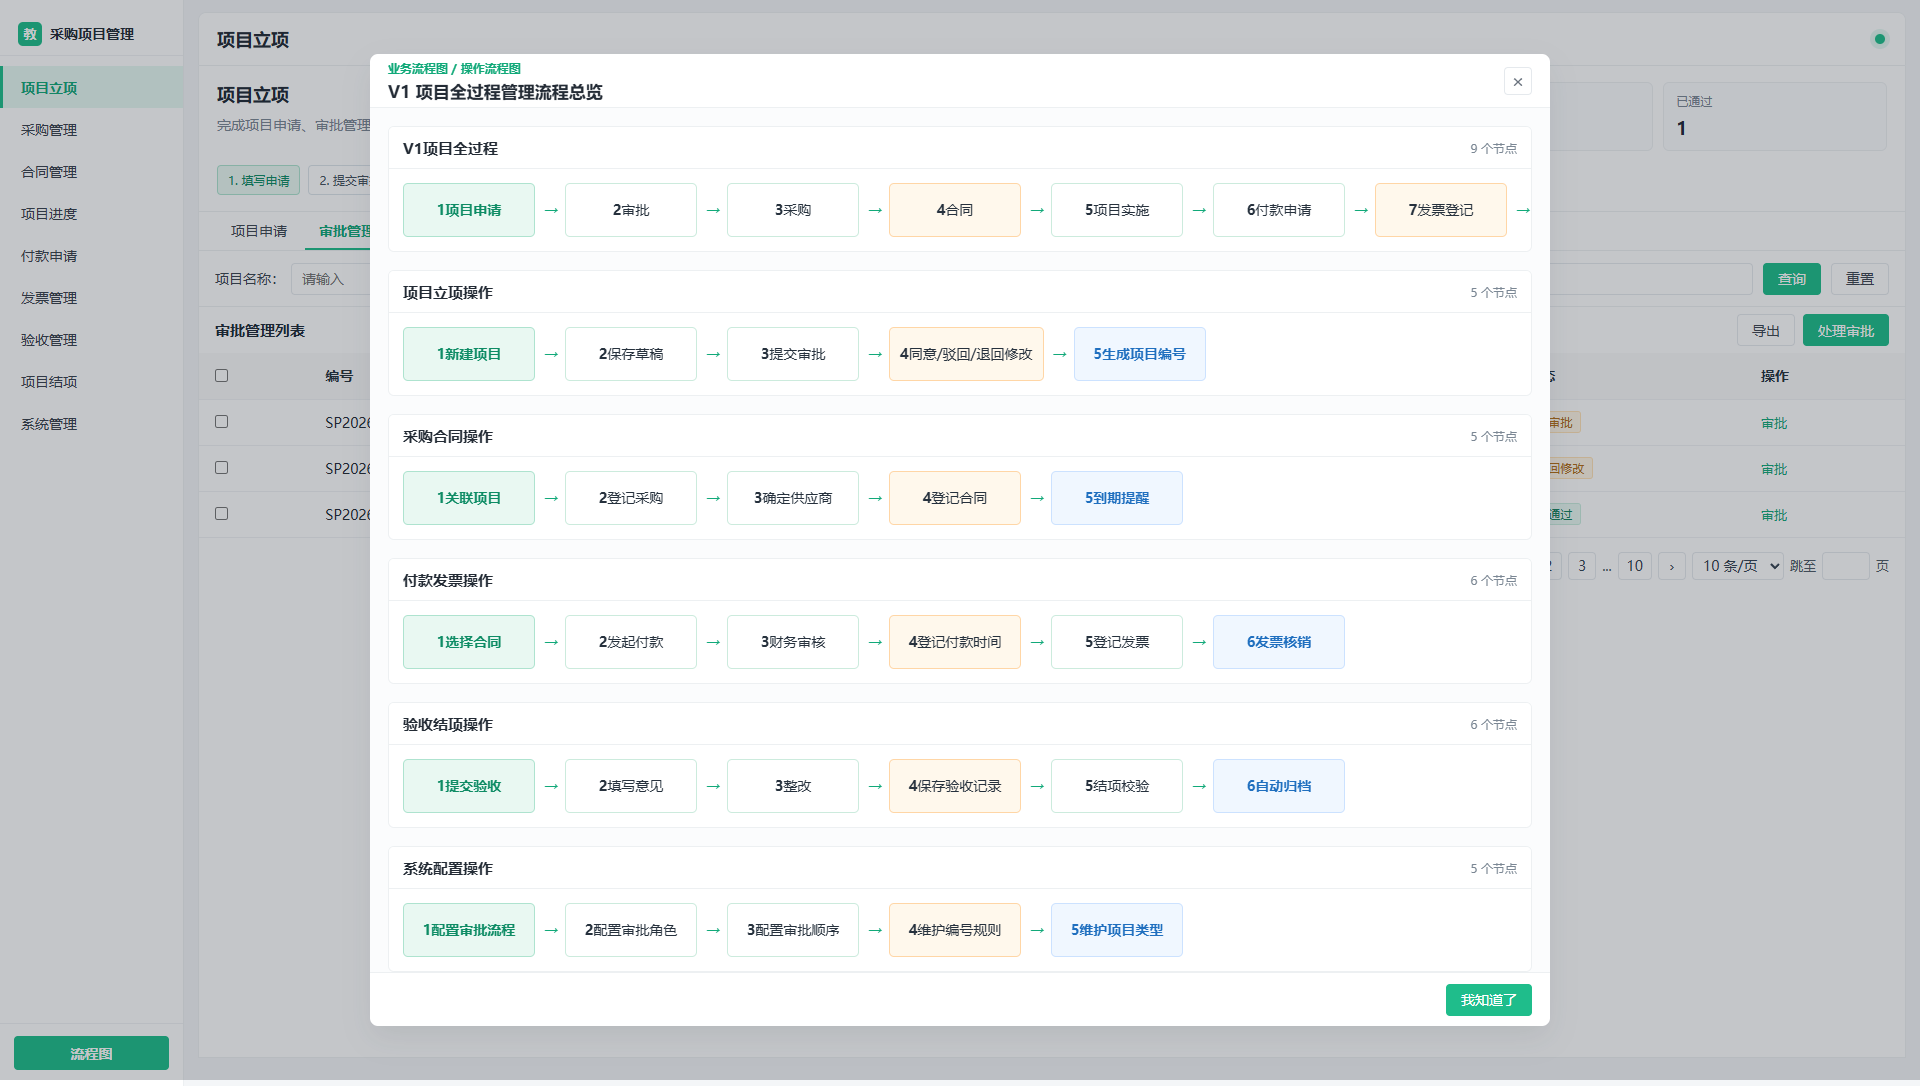
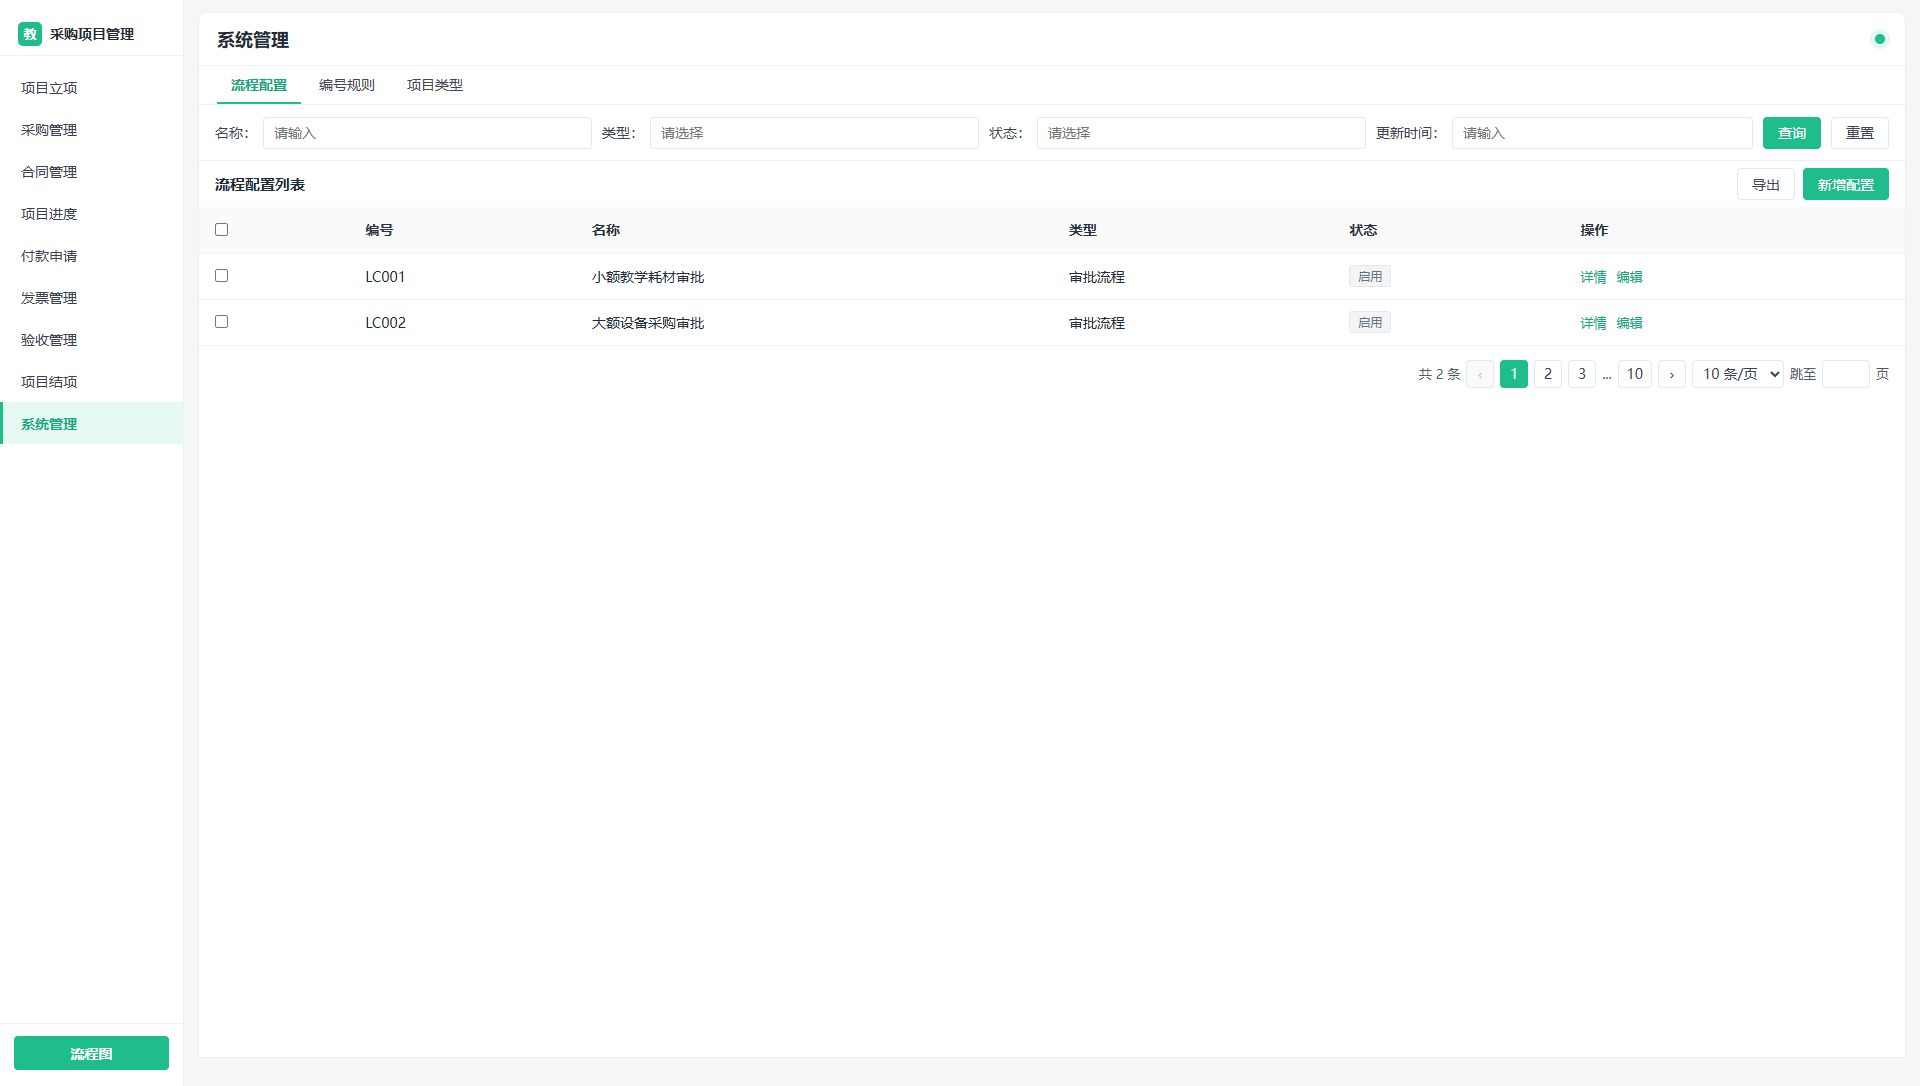
update website

diff --git a/采购项目管理原型.html b/采购项目管理原型.html
@@ -315,85 +315,6 @@ h1 {
   padding: 0;
 }
 
-.v1-overview {
-  display: grid;
-  grid-template-columns: minmax(260px, 1.1fr) minmax(360px, 1.4fr);
-  gap: 14px 18px;
-  padding: 16px 18px;
-  border-bottom: 1px solid var(--line);
-  background: #fff;
-}
-
-.v1-overview h2 {
-  margin: 0 0 8px;
-  font-size: 18px;
-  color: #202a35;
-}
-
-.v1-overview p {
-  color: var(--muted);
-  line-height: 1.6;
-}
-
-.v1-metrics {
-  display: grid;
-  grid-template-columns: repeat(4, minmax(0, 1fr));
-  gap: 10px;
-}
-
-.v1-metrics div {
-  min-height: 58px;
-  border: 1px solid var(--line);
-  border-radius: 6px;
-  background: #fbfcfd;
-  padding: 10px 12px;
-}
-
-.v1-metrics span {
-  display: block;
-  color: var(--muted);
-  font-size: 12px;
-  margin-bottom: 7px;
-}
-
-.v1-metrics strong {
-  color: #1f2937;
-  font-size: 18px;
-}
-
-.v1-flow {
-  grid-column: 1 / -1;
-  display: flex;
-  align-items: center;
-  gap: 8px;
-  overflow-x: auto;
-}
-
-.v1-flow span {
-  flex: 0 0 auto;
-  min-height: 30px;
-  display: inline-flex;
-  align-items: center;
-  border: 1px solid #dce4ea;
-  border-radius: 4px;
-  background: #fff;
-  color: #46515d;
-  padding: 0 10px;
-  font-size: 12px;
-}
-
-.v1-flow span.start {
-  color: #0e8c65;
-  border-color: #aee3cf;
-  background: #e9f8f2;
-}
-
-.v1-flow span.end {
-  color: #1f6fbf;
-  border-color: #cce2ff;
-  background: #f0f7ff;
-}
-
 .hidden {
   display: none !important;
 }
@@ -2214,7 +2135,6 @@ function render() {
   const rows = filteredRows();
   els.pageTitle.textContent = config.title;
   els.moduleView.innerHTML = `
-    ${renderOverview(config)}
     ${renderTabs(config, tab)}
     ${renderFilters(config.filters)}
     <div class="table-toolbar">
@@ -2228,17 +2148,6 @@ function render() {
     ${renderPager(rows.length)}
   `;
   bindModuleEvents();
-}
-
-function renderOverview(config) {
-  return `<section class="v1-overview">
-    <div>
-      <h2>${config.title}</h2>
-      <p>${config.subtitle}</p>
-    </div>
-    <div class="v1-metrics">${config.metrics.map(([label, value]) => `<div><span>${label}</span><strong>${value}</strong></div>`).join("")}</div>
-    <div class="v1-flow">${config.flow.map((step, index) => `<span class="${index === 0 ? "start" : index === config.flow.length - 1 ? "end" : ""}">${index + 1}. ${step}</span>`).join("")}</div>
-  </section>`;
 }
 
 function currentConfig() {

diff --git a/styles.css b/styles.css
@@ -308,85 +308,6 @@ h1 {
   padding: 0;
 }
 
-.v1-overview {
-  display: grid;
-  grid-template-columns: minmax(260px, 1.1fr) minmax(360px, 1.4fr);
-  gap: 14px 18px;
-  padding: 16px 18px;
-  border-bottom: 1px solid var(--line);
-  background: #fff;
-}
-
-.v1-overview h2 {
-  margin: 0 0 8px;
-  font-size: 18px;
-  color: #202a35;
-}
-
-.v1-overview p {
-  color: var(--muted);
-  line-height: 1.6;
-}
-
-.v1-metrics {
-  display: grid;
-  grid-template-columns: repeat(4, minmax(0, 1fr));
-  gap: 10px;
-}
-
-.v1-metrics div {
-  min-height: 58px;
-  border: 1px solid var(--line);
-  border-radius: 6px;
-  background: #fbfcfd;
-  padding: 10px 12px;
-}
-
-.v1-metrics span {
-  display: block;
-  color: var(--muted);
-  font-size: 12px;
-  margin-bottom: 7px;
-}
-
-.v1-metrics strong {
-  color: #1f2937;
-  font-size: 18px;
-}
-
-.v1-flow {
-  grid-column: 1 / -1;
-  display: flex;
-  align-items: center;
-  gap: 8px;
-  overflow-x: auto;
-}
-
-.v1-flow span {
-  flex: 0 0 auto;
-  min-height: 30px;
-  display: inline-flex;
-  align-items: center;
-  border: 1px solid #dce4ea;
-  border-radius: 4px;
-  background: #fff;
-  color: #46515d;
-  padding: 0 10px;
-  font-size: 12px;
-}
-
-.v1-flow span.start {
-  color: #0e8c65;
-  border-color: #aee3cf;
-  background: #e9f8f2;
-}
-
-.v1-flow span.end {
-  color: #1f6fbf;
-  border-color: #cce2ff;
-  background: #f0f7ff;
-}
-
 .hidden {
   display: none !important;
 }

diff --git a/app.js b/app.js
@@ -482,7 +482,6 @@ function render() {
   const rows = filteredRows();
   els.pageTitle.textContent = config.title;
   els.moduleView.innerHTML = `
-    ${renderOverview(config)}
     ${renderTabs(config, tab)}
     ${renderFilters(config.filters)}
     <div class="table-toolbar">
@@ -496,17 +495,6 @@ function render() {
     ${renderPager(rows.length)}
   `;
   bindModuleEvents();
-}
-
-function renderOverview(config) {
-  return `<section class="v1-overview">
-    <div>
-      <h2>${config.title}</h2>
-      <p>${config.subtitle}</p>
-    </div>
-    <div class="v1-metrics">${config.metrics.map(([label, value]) => `<div><span>${label}</span><strong>${value}</strong></div>`).join("")}</div>
-    <div class="v1-flow">${config.flow.map((step, index) => `<span class="${index === 0 ? "start" : index === config.flow.length - 1 ? "end" : ""}">${index + 1}. ${step}</span>`).join("")}</div>
-  </section>`;
 }
 
 function currentConfig() {

diff --git a/design-qa.md b/design-qa.md
@@ -12,7 +12,7 @@ Final result: passed
 ## 浏览器检查结果
 
 - 已按 V1 功能重新生成前端页面并覆盖旧内容。
-- 每个业务菜单顶部均包含 V1 页面概览、关键指标与当前模块操作流程。
+- 所有业务页面顶部的 V1 概览、关键指标与流程条区域已删除，页面直接进入标签、筛选与列表。
 - 9 个左侧菜单均可点击并展示模拟业务数据。
 - 新增/编辑弹窗默认不带业务数据，仅展示“请输入 / 请选择 / 点击上传”等提示。
 - 必填字段仅在字段名前展示 `*`，字段后无“必填 / 非必填”文字。